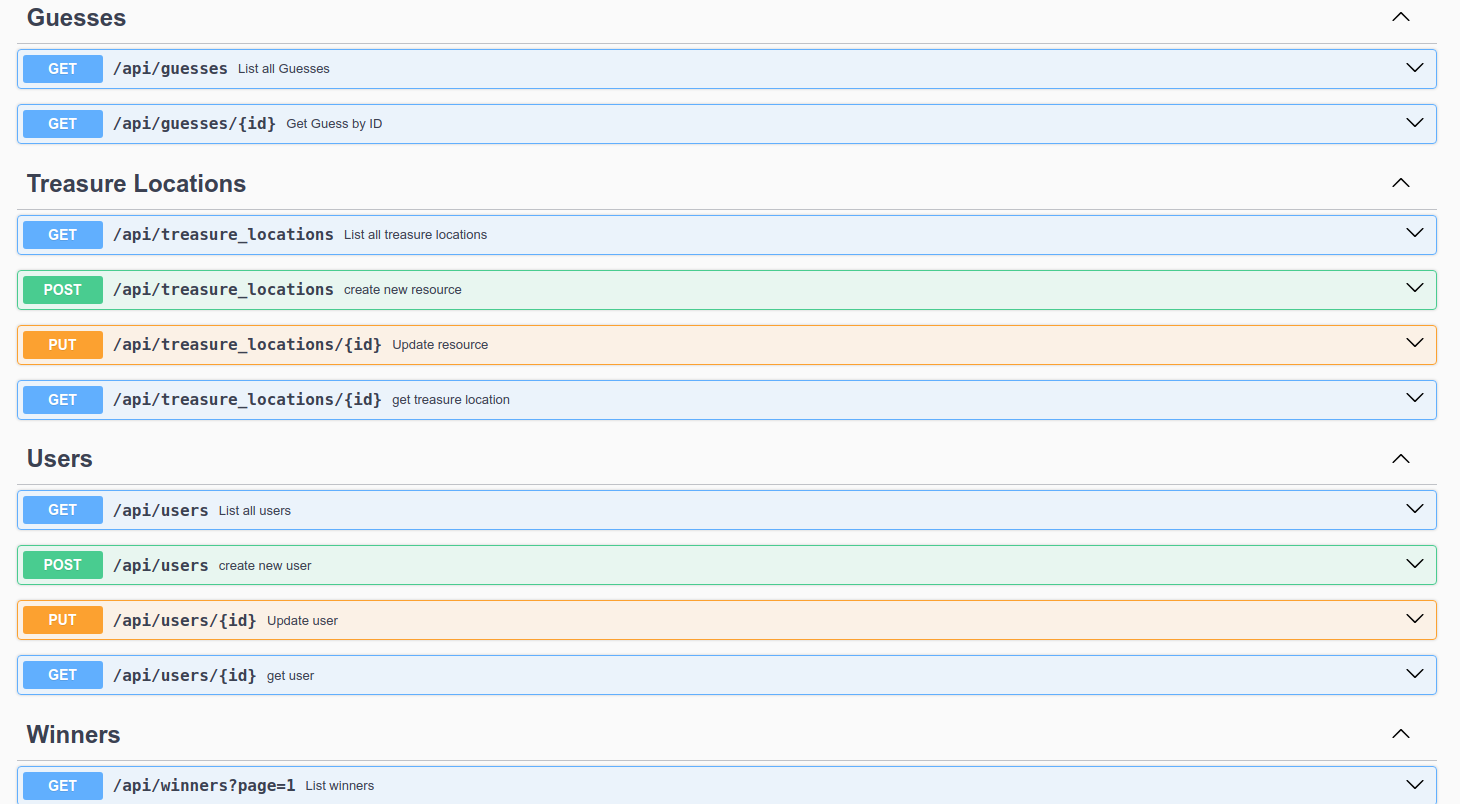
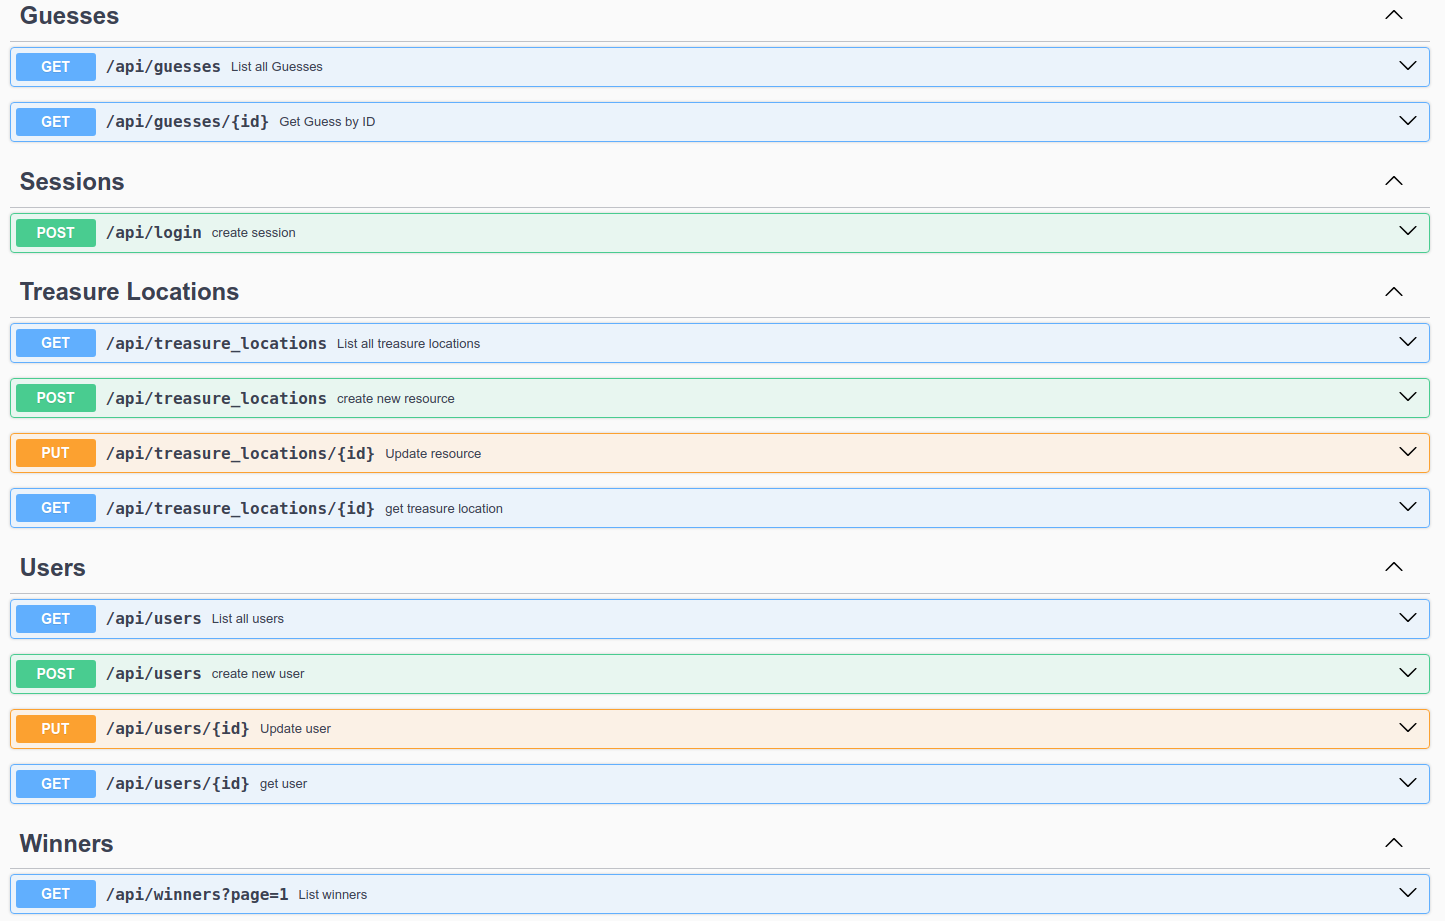
Added tests for request sessions

diff --git a/spec/requests/api/sessions_spec.rb b/spec/requests/api/sessions_spec.rb
@@ -1,0 +1,38 @@
+require 'swagger_helper'
+
+RSpec.describe 'api/sessions', type: :request do
+
+  let!(:user) { create(:user) }
+  let!(:auth_token) { user.create_new_auth_token }
+
+  path '/api/login' do
+    post('create session') do
+      tags 'Sessions'
+      consumes 'application/json'
+      produces 'application/json'
+      parameter name: :payload, in: :body, schema: {
+        type: :object,
+        properties: {
+          email: { type: :string },
+          password: { type: :string }
+        },
+        required: ['email', 'password', 'password_confirmation']
+      }
+
+      response(201, 'successful') do
+        let(:Authorization) { "#{auth_token['Authorization']}" }
+        let(:payload) { { email: user.email, password: user.password } }
+        run_test!
+      end
+
+      response(401, 'unauthorized') do
+        let(:Authorization) { nil }
+        let(:payload) { { email: '', password: 'password' } } # Invalid payload
+        
+        run_test! do
+          expect(response).to have_http_status(:unauthorized)
+        end
+      end
+    end
+  end
+end

diff --git a/app/controllers/api/sessions_controller.rb b/app/controllers/api/sessions_controller.rb
@@ -1,11 +1,10 @@
 class Api::SessionsController < Api::ApiController
-
   def create
     @user = User.find_for_database_authentication(email: params[:email])
 
     if @user && @user.valid_password?(params[:password])
       token = @user.create_new_auth_token
-      render json: { user: @user, token: token['Authorization'] }
+      render json: { user: @user, token: token['Authorization'] }, status: :created
     else
       render json: { error: 'Invalid email or password' }, status: :unauthorized
     end

diff --git a/spec/controllers/sessions_controller_spec.rb b/spec/controllers/sessions_controller_spec.rb
@@ -9,7 +9,7 @@ RSpec.describe Api::SessionsController, type: :controller do
 
       it 'returns the user and token' do
         post :create, params: valid_credentials
-        expect(response).to have_http_status(:ok)
+        expect(response).to have_http_status(:created)
         expect(JSON.parse(response.body)).to include('user', 'token')
       end
     end
